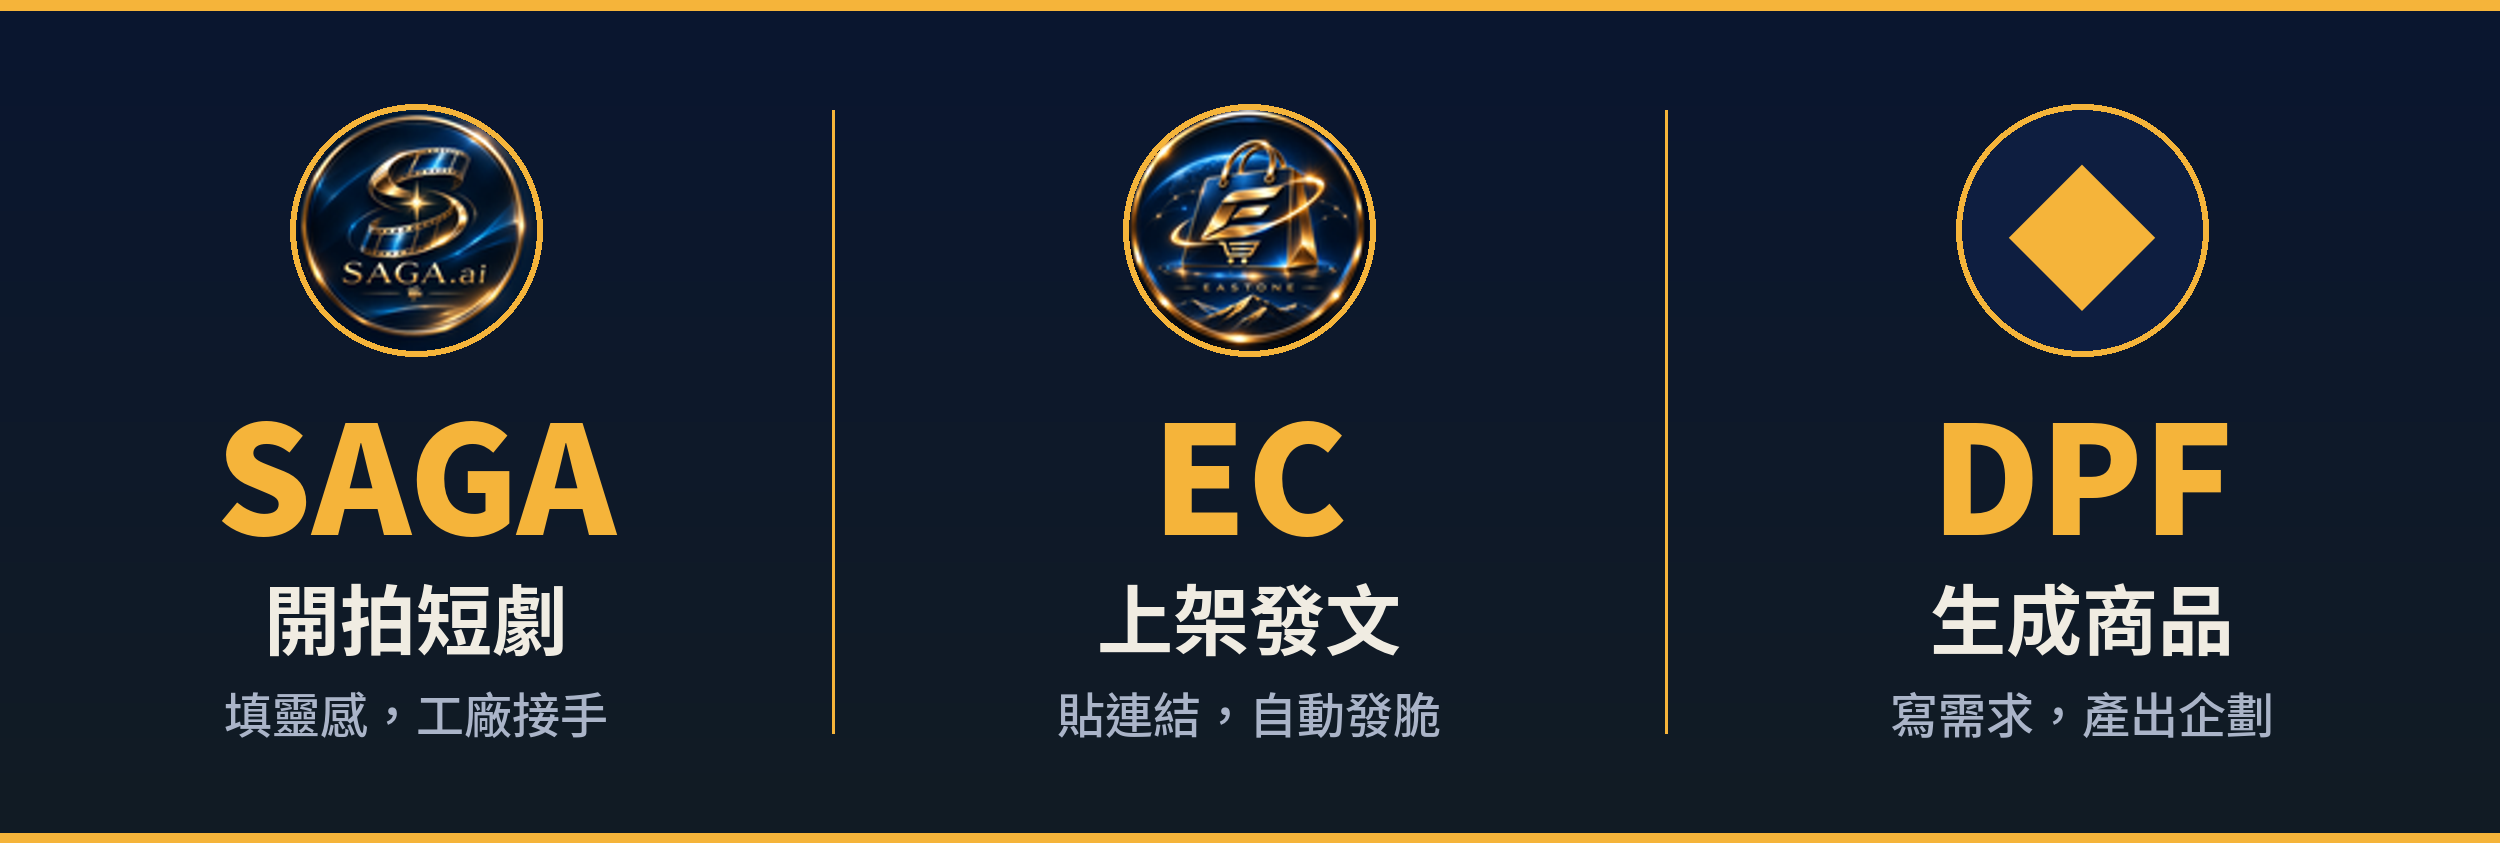
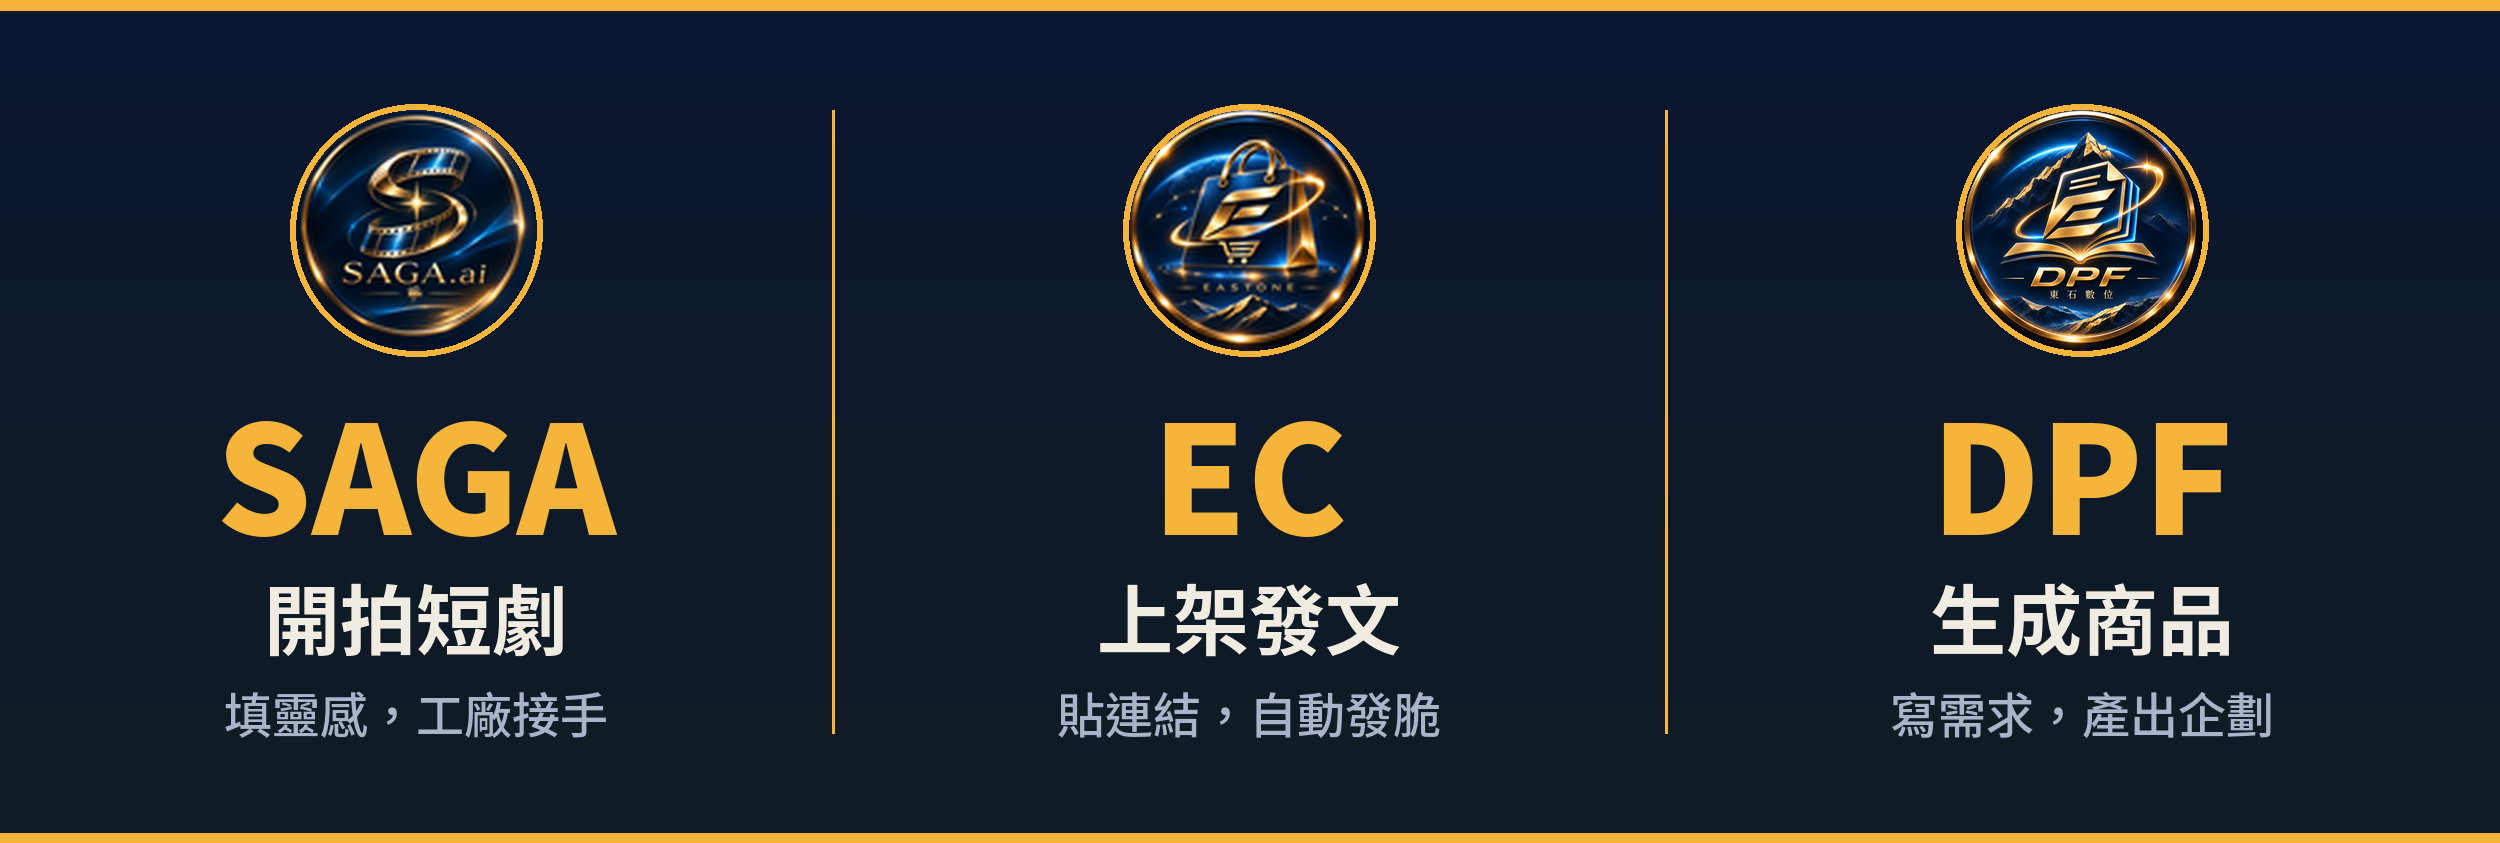
DPF 頭像：專案卡片與 LINE 圖文選單
Claude-Session: https://claude.ai/code/session_01KLCHjp3U4vC6yoUqh5zPMi

Changed region(s): [[0.78, 0.1234, 0.9048, 0.4318]]

diff --git a/script.js b/script.js
@@ -740,7 +740,7 @@
   var projects = (() => {
     let hub = null;
     const HEALTH = { ok: ["正常", "ok"], running: ["執行中", "run"], fail: ["需要處理", "bad"], unknown: ["無法讀取", "unk"] };
-    const AVATAR = { arthur: "assets/projects/arthur.png", "eastone.saga": "assets/projects/saga.png", "eastone.ecommerce": "assets/projects/ec.png", "eastone.trader": "assets/projects/trader.png" };
+    const AVATAR = { arthur: "assets/projects/arthur.png", "eastone.saga": "assets/projects/saga.png", "eastone.ecommerce": "assets/projects/ec.png", "eastone.trader": "assets/projects/trader.png", "eastone.dpf": "assets/projects/dpf.png" };
     const avatar = (x) => AVATAR[x.repo] ? `<img class="pav" src="${AVATAR[x.repo]}" alt="" width="34" height="34" loading="lazy">` : `<span class="pav pav-txt" aria-hidden="true">${esc((x.name || x.repo).trim().charAt(0))}</span>`;
     const ago = (iso) => {
       if (!iso) return "–";

diff --git a/sw.js b/sw.js
@@ -1,6 +1,6 @@
 /* A.R.T.H.U.R. service worker：讓安裝後的 App 可離線開啟。
    只快取本站檔案；Google、Supabase、匯率等外部請求一律直接走網路。 */
-const VERSION = "jarvis-2.9.1";
+const VERSION = "jarvis-2.9.2";
 const SHELL = [
   "./", "index.html", "style.css", "script.js", "config.js", "manifest.webmanifest",
   "assets/core.jpg", "assets/icon-192.png", "assets/icon-512.png", "assets/favicon.png",
